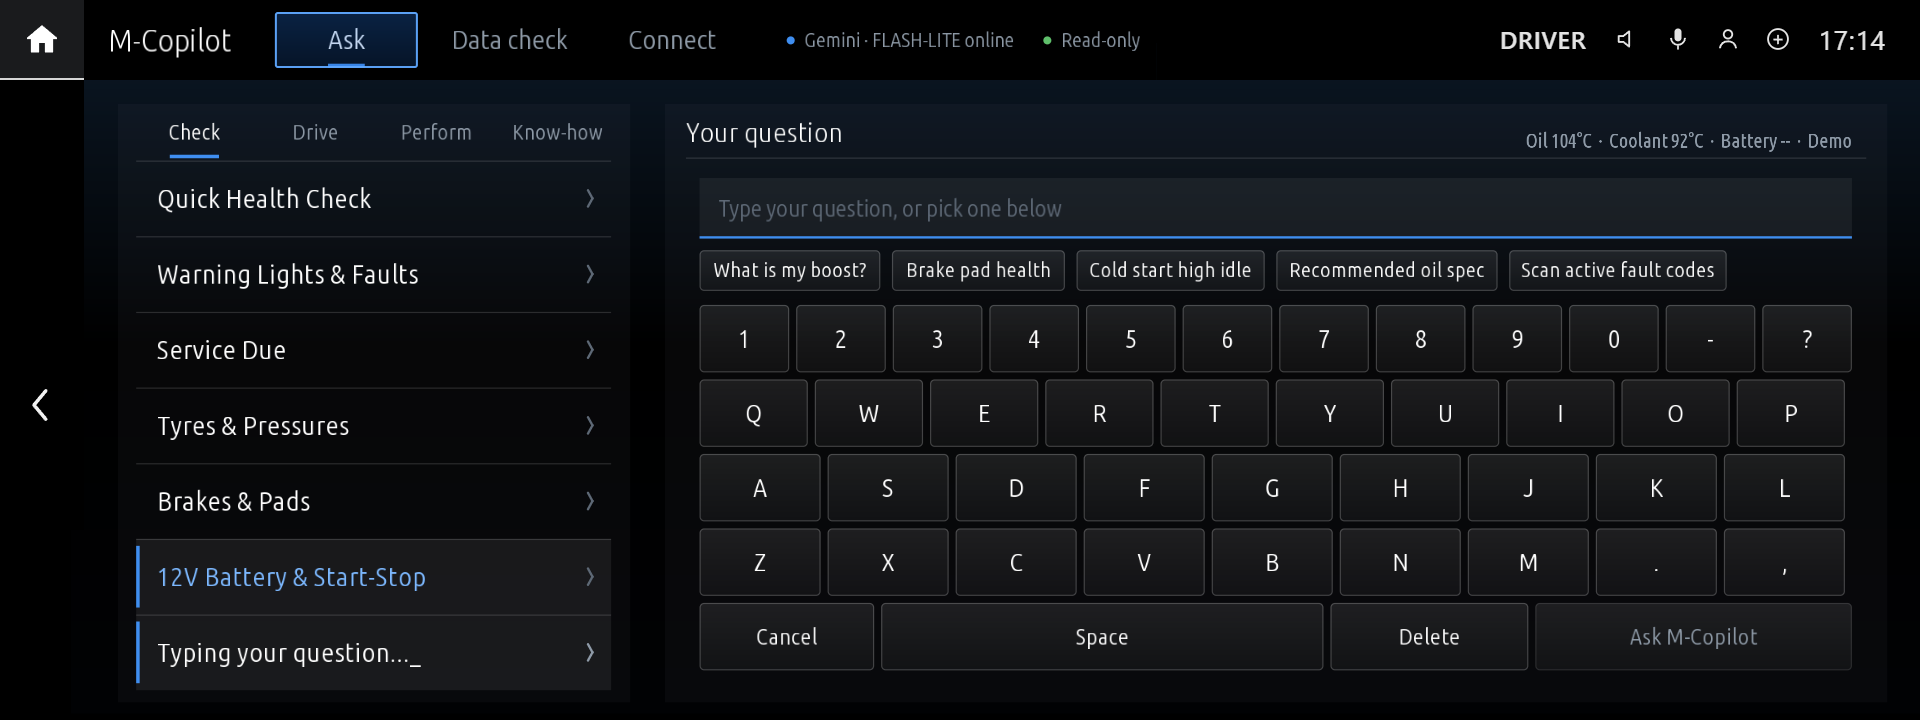
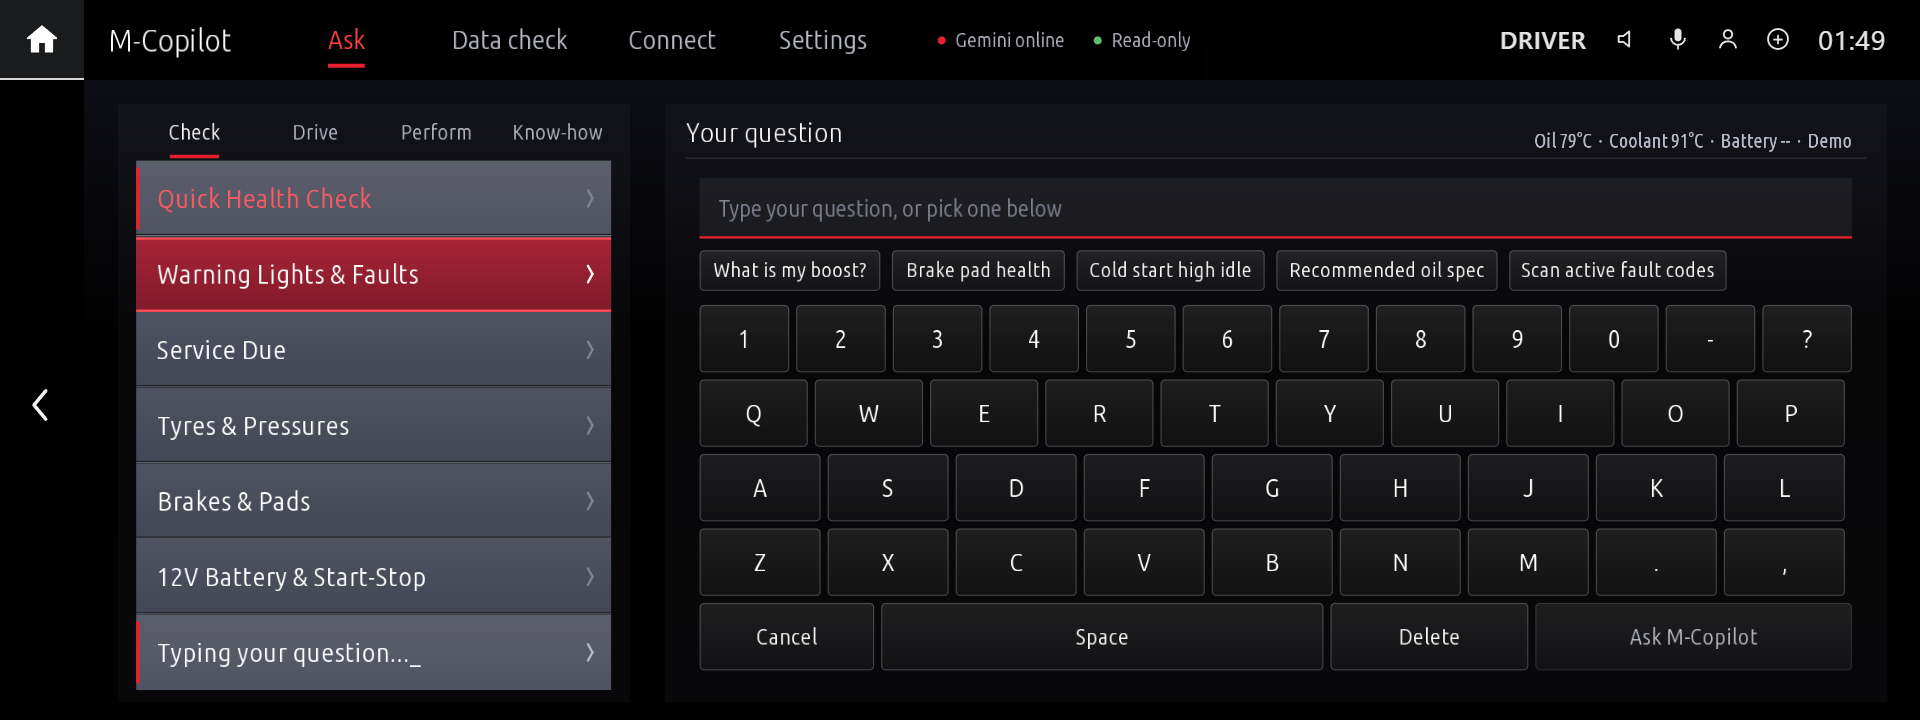
feat(spotify,m_copilot,kit,docs): 1.0.27 / 1.0.24 - iDrive Red, the native lists' theme, as the default
Colours from the car's native list screens: the grey list panel with its row dividers, the square red focus bar with bright edge lines, the red open tab. M-Copilot gets a Settings tab with the colour themes. Cars still on the old default (Spotify Green, iDrive Blue) move once; a chosen theme stays. A focused tab's name is drawn white over the bar. Screenshots retaken.

diff --git a/kit/runtime/gauges.js b/kit/runtime/gauges.js
@@ -144,7 +144,7 @@ const col = (t, c, dflt) => (c ? t[c] || c : dflt);
  */
 const lineCol = (t) => t.line || withAlpha('#ffffff', 0.14);
 const faintCol = (t) => t.faint || withAlpha(t.dim || '#8e9aa7', 0.7);
-// the focus bar: the theme's own (iDrive Blue), else its selection colour with a lighter edge of the same hue
+// the focus bar: the theme's own (iDrive Red, iDrive Blue), else its selection colour with a lighter edge of the same hue
 const focusCols = (t) => {
     const fill = t.focus || t.sel || t.accent;
     return { fill, edge: t.focusEdge || mix(fill, '#ffffff', 0.4) };
@@ -162,6 +162,14 @@ function background(cv, t, x, y, w, h) {
  */
 function focusBar(cv, t, x, y, w, h, r, over) {
     const f = focusCols(t);
+    // (focusLines: the HMI's own, square, with its edge as a line along the top and the bottom)
+    if (t.focusLines) {
+        const a = over ? 0.5 : 1, e = Math.min(2, h / 4);
+        cv.card(x, y, w, h, 0, [[0, withAlpha(f.fill, a)], [1, withAlpha(t.focusLow || f.fill, a)]]);
+        cv.fillRect(x, y, w, e, f.edge);
+        cv.fillRect(x, y + h - e, w, e, f.edge);
+        return;
+    }
     r = r == null ? 3 : Math.min(r, h / 2);
     cv.card(x, y, w, h, r, [[0, withAlpha(f.fill, over ? 0.34 : 0.62)], [1, withAlpha(f.fill, over ? 0.2 : 0.38)]]);
     cv.strokeRoundRect(x, y, w, h, r, 2, withAlpha(f.edge, 0.95));
@@ -180,12 +188,18 @@ const isFocus = (cv, key) => !!cv.focusKey && cv.focusKey === String(key);
  */
 function listRow(cv, t, x, y, w, h, o) {
     o = o || {};
+    // (rowTop: the HMI's grey list panel under the rows; the rows next to each other make it one panel)
+    if (t.rowTop) cv.card(x, y, w, h, 0, [[0, t.rowTop], [1, t.rowBottom || t.rowTop]]);
     if (o.focus) { focusBar(cv, t, x, y + 1, w, h - 1, 3); return; }
     if (o.active) {
         cv.fillRect(x, y, w, h, withAlpha('#ffffff', 0.07));
         cv.fillRect(x, y + 6, 3, h - 12, t.sel || t.accent);
     }
-    if (o.line !== false) hairline(cv, t, x, y + h, w);
+    if (o.line === false) return;
+    if (t.rowTop) {
+        cv.fillRect(x, y + h - 2, w, 1, t.rowLine || '#00000080');
+        cv.fillRect(x, y + h - 1, w, 1, t.rowShine || withAlpha('#ffffff', 0.18));
+    } else hairline(cv, t, x, y + h, w);
 }
 
 /** A section's title, as the HMI titles its lists: light weight at x, baseline y, a hairline under it to w. */
@@ -914,7 +928,8 @@ function headerCompact(cv, t, x, y, w, h, title, tabs, sel, badges, k) {
     names.forEach((n, i) => {
         const on = i === sel, bw = tw[i];
         if (tx + bw > x + room) return;
-        cv.tabRects.push({ i, x: tx, y, w: bw, h });
+        // (label: the name to draw again in white over the controller's focus bar, Display._drawChrome)
+        cv.tabRects.push({ i, x: tx, y, w: bw, h, label: { text: n, x: tx + bw / 2, y: y + h / 2 + tf * 0.34, size: tf, opt } });
         const lw = cv.textWidth(n, tf, opt);
         // the open tab: white, a thin blue line under its name (as the HMI marks the open one of its tabs)
         if (on) cv.fillRect(tx + (bw - lw) / 2, y + h / 2 + tf * 0.36 + Math.round(10 * z), lw, Math.max(3, Math.round(3 * z)), S);

diff --git a/kit/runtime/themes.js b/kit/runtime/themes.js
@@ -1,16 +1,36 @@
 'use strict';
 /**
  * themes.js - colour schemes for kit-drawn screens. Picked per app in its
- * settings ("theme"); unknown ids fall back to iDrive Blue, the default.
+ * settings ("theme"); unknown ids fall back to iDrive Red, the default.
  * oil = colour of oil temperature (red in M Tricolour, so it stands apart from the blue coolant).
  * bar = fill of the OEM-style bars, hang = their peak hold (default: the fill colour), sel = selected tab (selText = its name, default sel), marker = the '|' at the end of a bar / on a chart.
  * mStripes = the M stripes on panel titles (G.panel).
  * ramp = colours a bar runs through from low to high; hotRamp = a dial's arc, running
  * from the theme colour to red at the dial's limit (redline, max boost, ...).
+ * rowTop / rowBottom: list rows on the HMI's grey list panel (G.listRow), parted by a dark line (rowLine)
+ * over a light one (rowShine); focusLines: the HMI's square focus bar, its bright edge (focusEdge) as a
+ * line along the top and the bottom, its fill running from focus down to focusLow.
  */
 const THEMES = {
     /*
-     * iDrive Blue (the default): the iDrive 7 HMI's own look. Black with a faint blue light from the
+     * iDrive Red (the default): the iDrive 7 HMI's native lists as the car draws them (colours taken from
+     * photos of its native list screens): black around a grey list panel, white text, a red title and a
+     * red focus bar with bright red lines along its top and bottom.
+     */
+    idrive_red: {
+        name: 'iDrive Red',
+        bg: '#000000', bgTop: '#0f1018', bgBottom: '#010102',
+        panelTop: '#1b1d25', panelBottom: '#101117', panelEdge: '#2c2f3a',
+        rowTop: '#4f5260', rowBottom: '#434654', rowLine: '#1c1d25', rowShine: '#ffffff2e',
+        tab: '#ffffff', track: '#2a2c36', tick: '#4a4d5a', text: '#ffffff', dim: '#b6b9c4', faint: '#80838f',
+        line: '#ffffff24', focus: '#a72436', focusLow: '#801a29', focusEdge: '#ff4d57', focusLines: true,
+        accent: '#e8202e', accent2: '#ff5a63', ok: '#5fbf6b', warn: '#f2a531', crit: '#ff3b30', cold: '#73b9ff',
+        glow: '#e8202e40', stripes: ['#81c4ff', '#16588e', '#e7222e'], oil: '#e5352d', bar: '#e8202e', sel: '#e8202e', selText: '#ff4048', marker: '#ffffff',
+        ramp: ['#7a1020', '#e8202e', '#ff8a90'],
+        hotRamp: ['#7a1020', '#b81828', '#e8202e', '#ff4048', '#ff8a90'],
+    },
+    /*
+     * iDrive Blue: the iDrive 7 HMI's look in blue. Black with a faint blue light from the
      * top, white text, grey secondary text, hairline separators, and blue only where the HMI uses it -
      * the controller's focus bar (focus / focusEdge), a selection, a progress bar. bgTop / bgBottom:
      * the page's light; line: the separators; faint: the quietest text (hints, units).
@@ -70,7 +90,7 @@ const THEMES = {
     },
 };
 
-function theme(id) { return THEMES[id] || THEMES.idrive; }
+function theme(id) { return THEMES[id] || THEMES.idrive_red; }
 const ids = () => Object.keys(THEMES);
 
 module.exports = { THEMES, theme, ids };

diff --git a/apps/m_copilot/main.js b/apps/m_copilot/main.js
@@ -1454,7 +1454,7 @@ mgu.run({
             if (!force && now - lastRenderTime < 250) return;
             const cv = ctx.canvas(W, H);
             // what the frame shows: unchanged, the frame isn't drawn again (a safety redraw every 2 s)
-            const sig = [ctx.display && ctx.display.focusKey, ai.hasInternet, ai.isConfigured(), showPhoneQr, showKeyboard, customQuery, activeCategory, selectedTopicIdx, currentPrompt, currentResponse,
+            const sig = [ctx.display && ctx.display.focusKey, settings.get('theme'), ai.hasInternet, ai.isConfigured(), showPhoneQr, showKeyboard, customQuery, activeCategory, selectedTopicIdx, currentPrompt, currentResponse,
                 dialogueScroll, canFollowUp, isThinking, telemetry.moving, vitalsLine(), statusMsg && now - statusTime < 3500 ? statusMsg : '', ai.modelLabel(), providerName(),
                 cv.extra || 0, page === 2 ? cloudPair.getPairingUrl() + JSON.stringify(vehicle.profile || {}) + (ai.config.model || '') : '', page, page === 1 ? Math.floor(now / 1000) + (checking || '') : ''].join('|');
             if (!force && sig === lastSig && now - lastRenderTime < 2000) return;
@@ -1518,6 +1518,8 @@ mgu.run({
         // buttons are left out (the kit then drops the empty bar and gives the page its height). On the
         // HMI's own path they stay, so the controller can still reach both actions there.
         if (ctx.hideButton) { ctx.hideButton('BTN_PROMPT'); ctx.hideButton('BTN_REPAIR'); }
+        // a new colour theme (Settings): drawn at once
+        settings.onChange((k) => { if (k === 'theme') render(true); });
 
         ui.onClick('BTN_REPAIR', () => {
             page = 2;

diff --git a/kit/runtime/mgu.js b/kit/runtime/mgu.js
@@ -126,13 +126,13 @@ class Settings {
         for (const s of this.schema) {
             if (s.aliases && Object.prototype.hasOwnProperty.call(s.aliases, this.values[s.key])) this.values[s.key] = s.aliases[this.values[s.key]];
         }
-        // one-time move of saved settings to the new default theme (iDrive Blue, v3); later choices are kept.
+        // one-time move of saved settings to the new default theme (iDrive Red, v4); later choices are kept.
         // "migrateFrom" (app.json, the theme setting): only a car still on one of these themes (the app's
         // old default) moves; a theme the owner picked stays
         const th = this.item('theme');
-        if (th && this.values._themeV !== 3) {
+        if (th && this.values._themeV !== 4) {
             const saved = fs.existsSync(this.file);
-            this.values._themeV = 3;            // (a fresh install has the default: the mark is saved with its first setting)
+            this.values._themeV = 4;            // (a fresh install has the default: the mark is saved with its first setting)
             if (saved && (!th.migrateFrom || th.migrateFrom.indexOf(this.values.theme) >= 0)) {
                 this.values.theme = th.default;
                 try { Settings.writeWhole(this.file, JSON.stringify(this.values, null, 1)); } catch (e) { /* read-only */ }

diff --git a/kit/runtime/display.js b/kit/runtime/display.js
@@ -964,7 +964,11 @@ class Display {
         if (sx > end) c.fillRect(end, 0, sx - end, geo.headH, HMI.headBg);
         // the tab the controller is on (the kit holds it: Display._ccu)
         const ft = this.focusTab != null && (!this.sheet || this.sheetHead) && (c.tabRects || []).find((q) => q.i === this.focusTab);
-        if (ft) G.focusBar(c, t, ft.x + 4, ft.y + 12, ft.w - 8, ft.h - 24, 3, true);
+        if (ft) {
+            G.focusBar(c, t, ft.x + 4, ft.y + 12, ft.w - 8, ft.h - 24, 3, true);
+            // its name white over the bar (the open tab's own colour, red in iDrive Red, would not show on it)
+            if (ft.label) c.text(ft.label.text, ft.label.x, ft.label.y, ft.label.size, '#ffffff', ft.label.opt);
+        }
         // the page button (or row) the controller is on, and one just pressed
         const k = pl.scale, onPage = (key) => !this.sheet && key && (this.pageTargets || []).find((q) => 'tgt:' + q.key === key);
         // the HMI's focus is a bar with square-ish corners; a round button (r of half its height or more) keeps its circle

diff --git a/README.md b/README.md
@@ -30,8 +30,8 @@ This repository is built on the open-source BMW iDrive 7 platform:
 
 | App | Version | Needs internet | Touches vehicle ECUs |
 | :--- | :---: | :---: | :--- |
-| [Spotify](#1-spotify-spotify) | 1.0.26 | Yes | No |
-| [M-Copilot](#2-m-copilot-m_copilot) | 1.0.23 | Yes | No (reads driving signals, service list and fault memory) |
+| [Spotify](#1-spotify-spotify) | 1.0.27 | Yes | No |
+| [M-Copilot](#2-m-copilot-m_copilot) | 1.0.24 | Yes | No (reads driving signals, service list and fault memory) |
 
 > [!NOTE]
 > **M-Cinema (YouTube player) has been removed**: playback was unreliable on some firmware and the sound was poor, and CarPlay and Android Auto workarounds play YouTube better.
@@ -41,13 +41,13 @@ This repository is built on the open-source BMW iDrive 7 platform:
 
 ![Spotify Playlists](docs/screenshots/spotify.png)
 
-* **Touch, drawn as the iDrive's own screens**: the player is made for the touchscreen, and drawn in the iDrive 7 HMI's own language rather than an app's. Its lists use the HMI's list rows: 86 px rows (on the 10.25" display) parted by hairlines, the text in the regular weight at the HMI's size with a second line under it (title, then artist and album), as the native two-row entries. Titles in the light weight, sentence-case tabs and buttons, black with a faint blue light from the top, and blue only where the HMI uses it (what plays, progress, the play button).
-* **The iDrive controller as on the native screens**: turning the knob moves the blue focus bar row by row, and at a list's end the list scrolls one row and the bar lands on the row that comes; pushing goes to what lies beside (from a playlist to its songs, from a row to the header's tabs). The bar is drawn under the row's text, as the HMI draws its own; pressing plays the song, opens the playlist or presses the button. A finger works the same lists at the same time.
+* **Touch, drawn as the iDrive's own screens**: the player is made for the touchscreen, and drawn in the iDrive 7 HMI's own language rather than an app's. Its lists use the HMI's list rows: 86 px rows (on the 10.25" display) on the native lists' grey panel, the text in the regular weight at the HMI's size with a second line under it (title, then artist and album), as the native two-row entries. Titles in the light weight, sentence-case tabs and buttons, black around the lists, and the theme's colour only where the HMI uses it (the open tab, what plays, progress, the play button).
+* **The iDrive controller as on the native screens**: turning the knob moves the focus bar row by row (iDrive Red: the native square red bar with bright lines along its top and bottom), and at a list's end the list scrolls one row and the bar lands on the row that comes; pushing goes to what lies beside (from a playlist to its songs, from a row to the header's tabs). The bar is drawn under the row's text, as the HMI draws its own; pressing plays the song, opens the playlist or presses the button. A finger works the same lists at the same time.
 * **Pair from your phone**: the Connect tab shows a QR code for [`pair.html`](https://hexlay.github.io/idrive7-custom-apps/pair.html). Sign in to Spotify on your phone (cellular data or Wi-Fi) and the login reaches the car end-to-end encrypted (see [Privacy & Security](#privacy--security)). Switching account is a disconnect and a new pairing, both from the phone.
 * **Library & playback**: all your playlists and liked songs (more load as you scroll; the library shows at once when the app opens, from a copy kept on the car, and refreshes in the background), Liked Songs played as Spotify's own collection, now playing with tap-to-seek, shuffle, repeat and like, Up Next you can jump into, and switching between Spotify Connect devices. Buttons that wait for Spotify show a spinner until it answers. Georgian titles and artists are shown in Georgian script. When something fails (no device to play on, Premium needed, no connection) a short message says why; with no active device, playback starts on the phone that played last.
 * **Internet through the MGU Store uplink**: looks up names through the uplink's DNS (see [Internet access](#internet-access)) and checks connectivity with a real HTTPS request. Without internet the player locks with **NO INTERNET CONNECTION**, **Retry** and **Switch to Demo Mode**.
 * **Sized for your display**: rows, buttons and text are sized in millimetres on the glass, as CarPlay sizes its own, so they are as easy to read and press on a 10.25" display as on a 12.3" one (the 12.3" display shows more rows instead). A tap just beside a button still presses it, and no text is drawn too small to read. The display is found on its own.
-* **Settings tab**: drawn as the head unit's own settings list: a row per setting with its value and a chevron, a value list with its choice marked, checkboxes, the focus bar (touch and the controller both work). Colour theme (iDrive Blue by default, Spotify Green, M Tricolour, M Red, Ice White, Night Amber), playback mode (Online, or Demo with sample music and no account), screen size (Automatic, 10.25", 12.3", 8.8"), screen layout (full screen or standard), renderer (GPU, or software) and how often playback is synced with Spotify (1 to 10 s, every 2 s by default).
+* **Settings tab**: drawn as the head unit's own settings list: a row per setting with its value and a chevron, a value list with its choice marked, checkboxes, the focus bar (touch and the controller both work). Colour theme (iDrive Red by default, in the colours of the car's native list screens; iDrive Blue, Spotify Green, M Tricolour, M Red, Ice White, Night Amber), playback mode (Online, or Demo with sample music and no account), screen size (Automatic, 10.25", 12.3", 8.8"), screen layout (full screen or standard), renderer (GPU, or software) and how often playback is synced with Spotify (1 to 10 s, every 2 s by default).
 * **Light on the head unit**: up to 30 frames a second while music plays and 10 when paused, and a paused screen that doesn't change isn't drawn again (about once a second instead).
 * **Foreground only**: nothing runs while Spotify is off screen. A disconnect sent from the phone meanwhile is applied when you come back to it, or at the next start within 12 hours. The pairing survives restarts.
 
@@ -77,7 +77,8 @@ This repository is built on the open-source BMW iDrive 7 platform:
 * **Warning messages and fault memory**: the Check Control messages active in the cluster are always part of the context. The health check and faults topics (or any question about faults) also read the stored faults of every control unit, with BMW's own fault descriptions (the Fault Scanner's fault-text database), so the AI explains the actual faults instead of hex codes. Each fault says whether it is **active now**, happened during this drive or is an older stored one, and whether it asked for the warning lamp, so the answer leads with what matters now.
 * **Pair from your phone**: M-Copilot opens on its Connect tab with a QR code. Scan it and enter the provider and API key on [`copilot.html`](https://hexlay.github.io/idrive7-custom-apps/copilot.html); the key reaches the car end-to-end encrypted, as with Spotify. Once paired, the tab shows the connection (provider, model, internet) and what the phone set (car profile, AI model), with a QR code to open the phone page.
 * **Disconnect from the phone only** (the car's page or *My cars*): the car drops the AI key and what the phone set and shows a new QR code. A new AI key is also set from the phone. Spotify works the same way.
-* **Drawn as the iDrive's own screens**, as Spotify: the topics and *Ask your own question* one list of the HMI's rows under plain-text category tabs, the answer straight on the page at the HMI's text size, a keyboard laid out like the iDrive speller, and the controller's blue focus bar under whatever it is on (rows, tabs, keys, buttons).
+* **Drawn as the iDrive's own screens**, as Spotify: the topics and *Ask your own question* one list of the HMI's rows under plain-text category tabs, the answer straight on the page at the HMI's text size, a keyboard laid out like the iDrive speller, and the controller's focus bar under whatever it is on (rows, tabs, keys, buttons).
+* **Settings tab**: colour theme, drawn as the head unit's settings list: iDrive Red by default, iDrive Blue, M Tricolour, M Red, Ice White or Night Amber.
 * **Data check page**: a second tab lists what this car actually gives, source by source: the VIN (type part) and where it came from, engine and gearbox units, every live signal with its value or why there is none (waiting, not on this car's firmware, error), the diagnostic link, the last fault read, and every engine-computer value with the identifier that answered it. *Read engine now* and *Read faults now* read on demand, under the same safety rules.
 * **Safe with the engine on or off**: driving data are passive subscriptions. Diagnostic reads (fault memory, and the one-time identification) are read-only requests in the default session, made only when a question needs them, and never while the engine is starting or the car is switching off; M-Copilot waits for a steady state instead. What is read follows the car's state: parked without ignition (units asleep) a fault read is marked as possibly incomplete and the engine computer is left alone; with the engine off, boost, load, timing and misfires are not read, and voltages, oil level and temperatures are labelled for what they then mean.
 * **Your choice of AI provider and model**: Google Gemini, Anthropic Claude (Claude Haiku 5.5 by default), OpenAI, Groq or OpenRouter, and the model on the phone page (e.g. Flash-Lite first, Claude Sonnet 5.5). The status bar shows the model that answered; when Gemini Flash is overloaded, Flash-Lite answers instead. Connections are reused, so an answer doesn't wait for a new TLS handshake.
